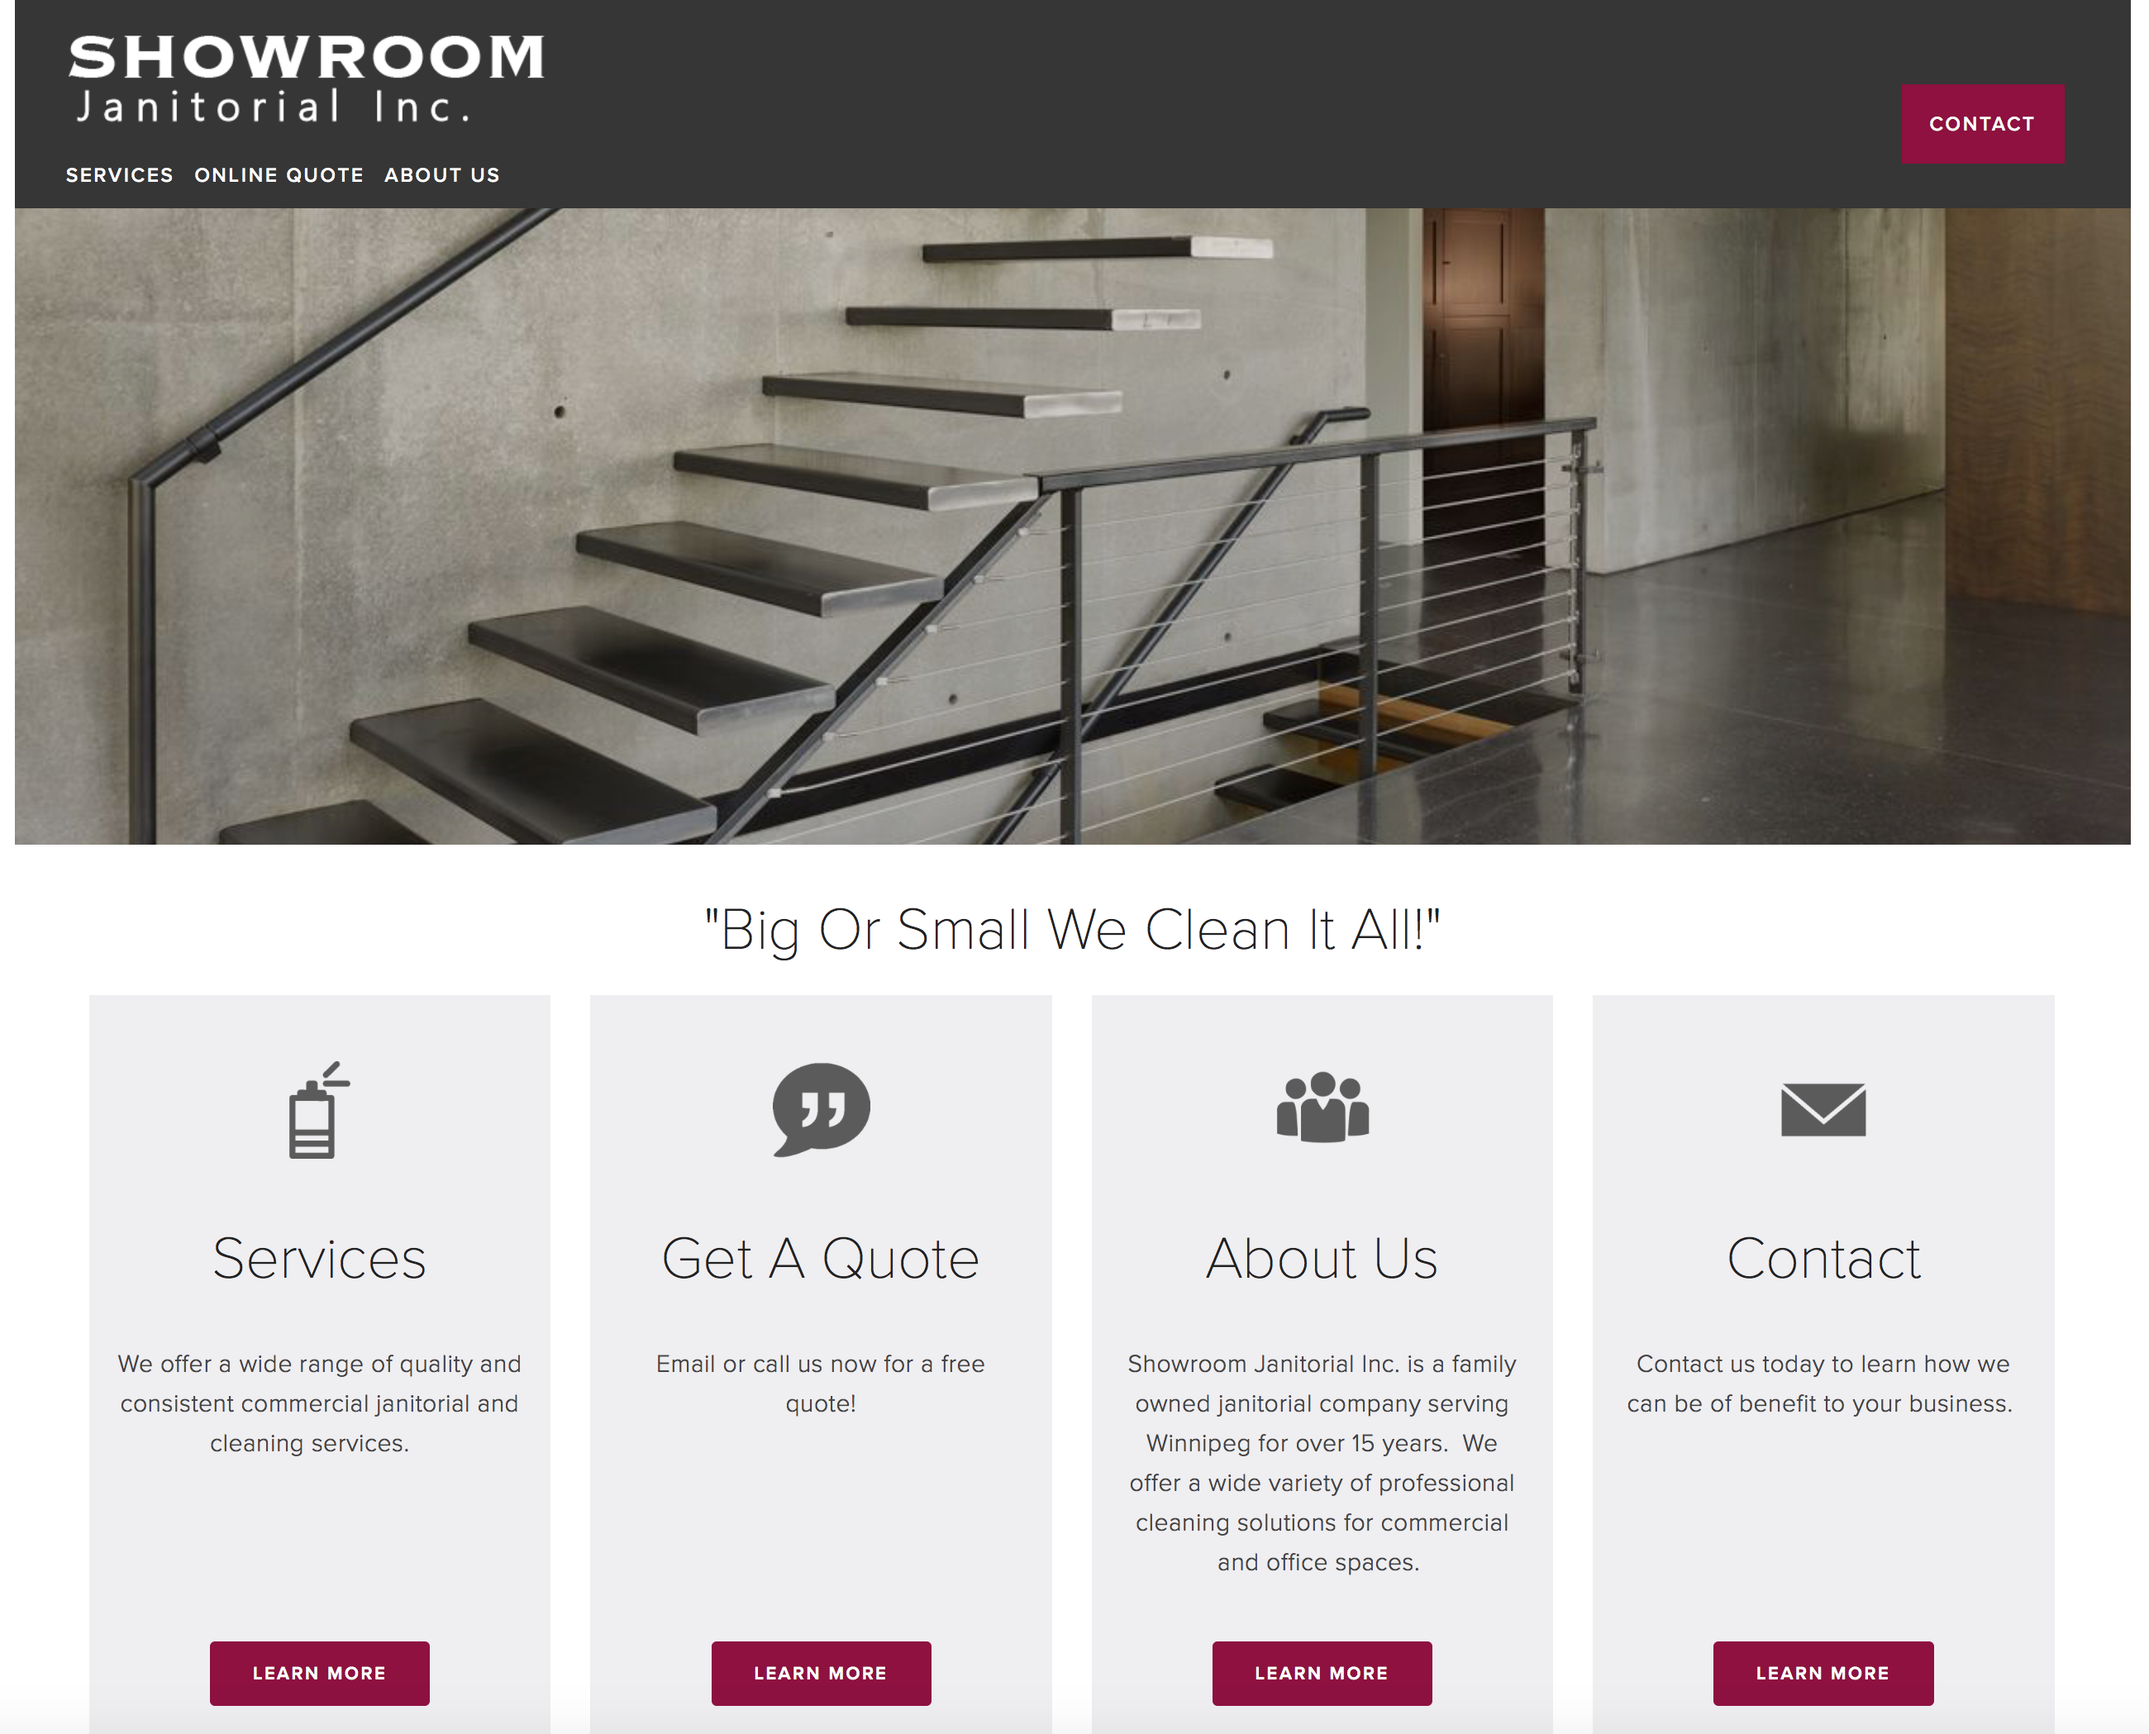
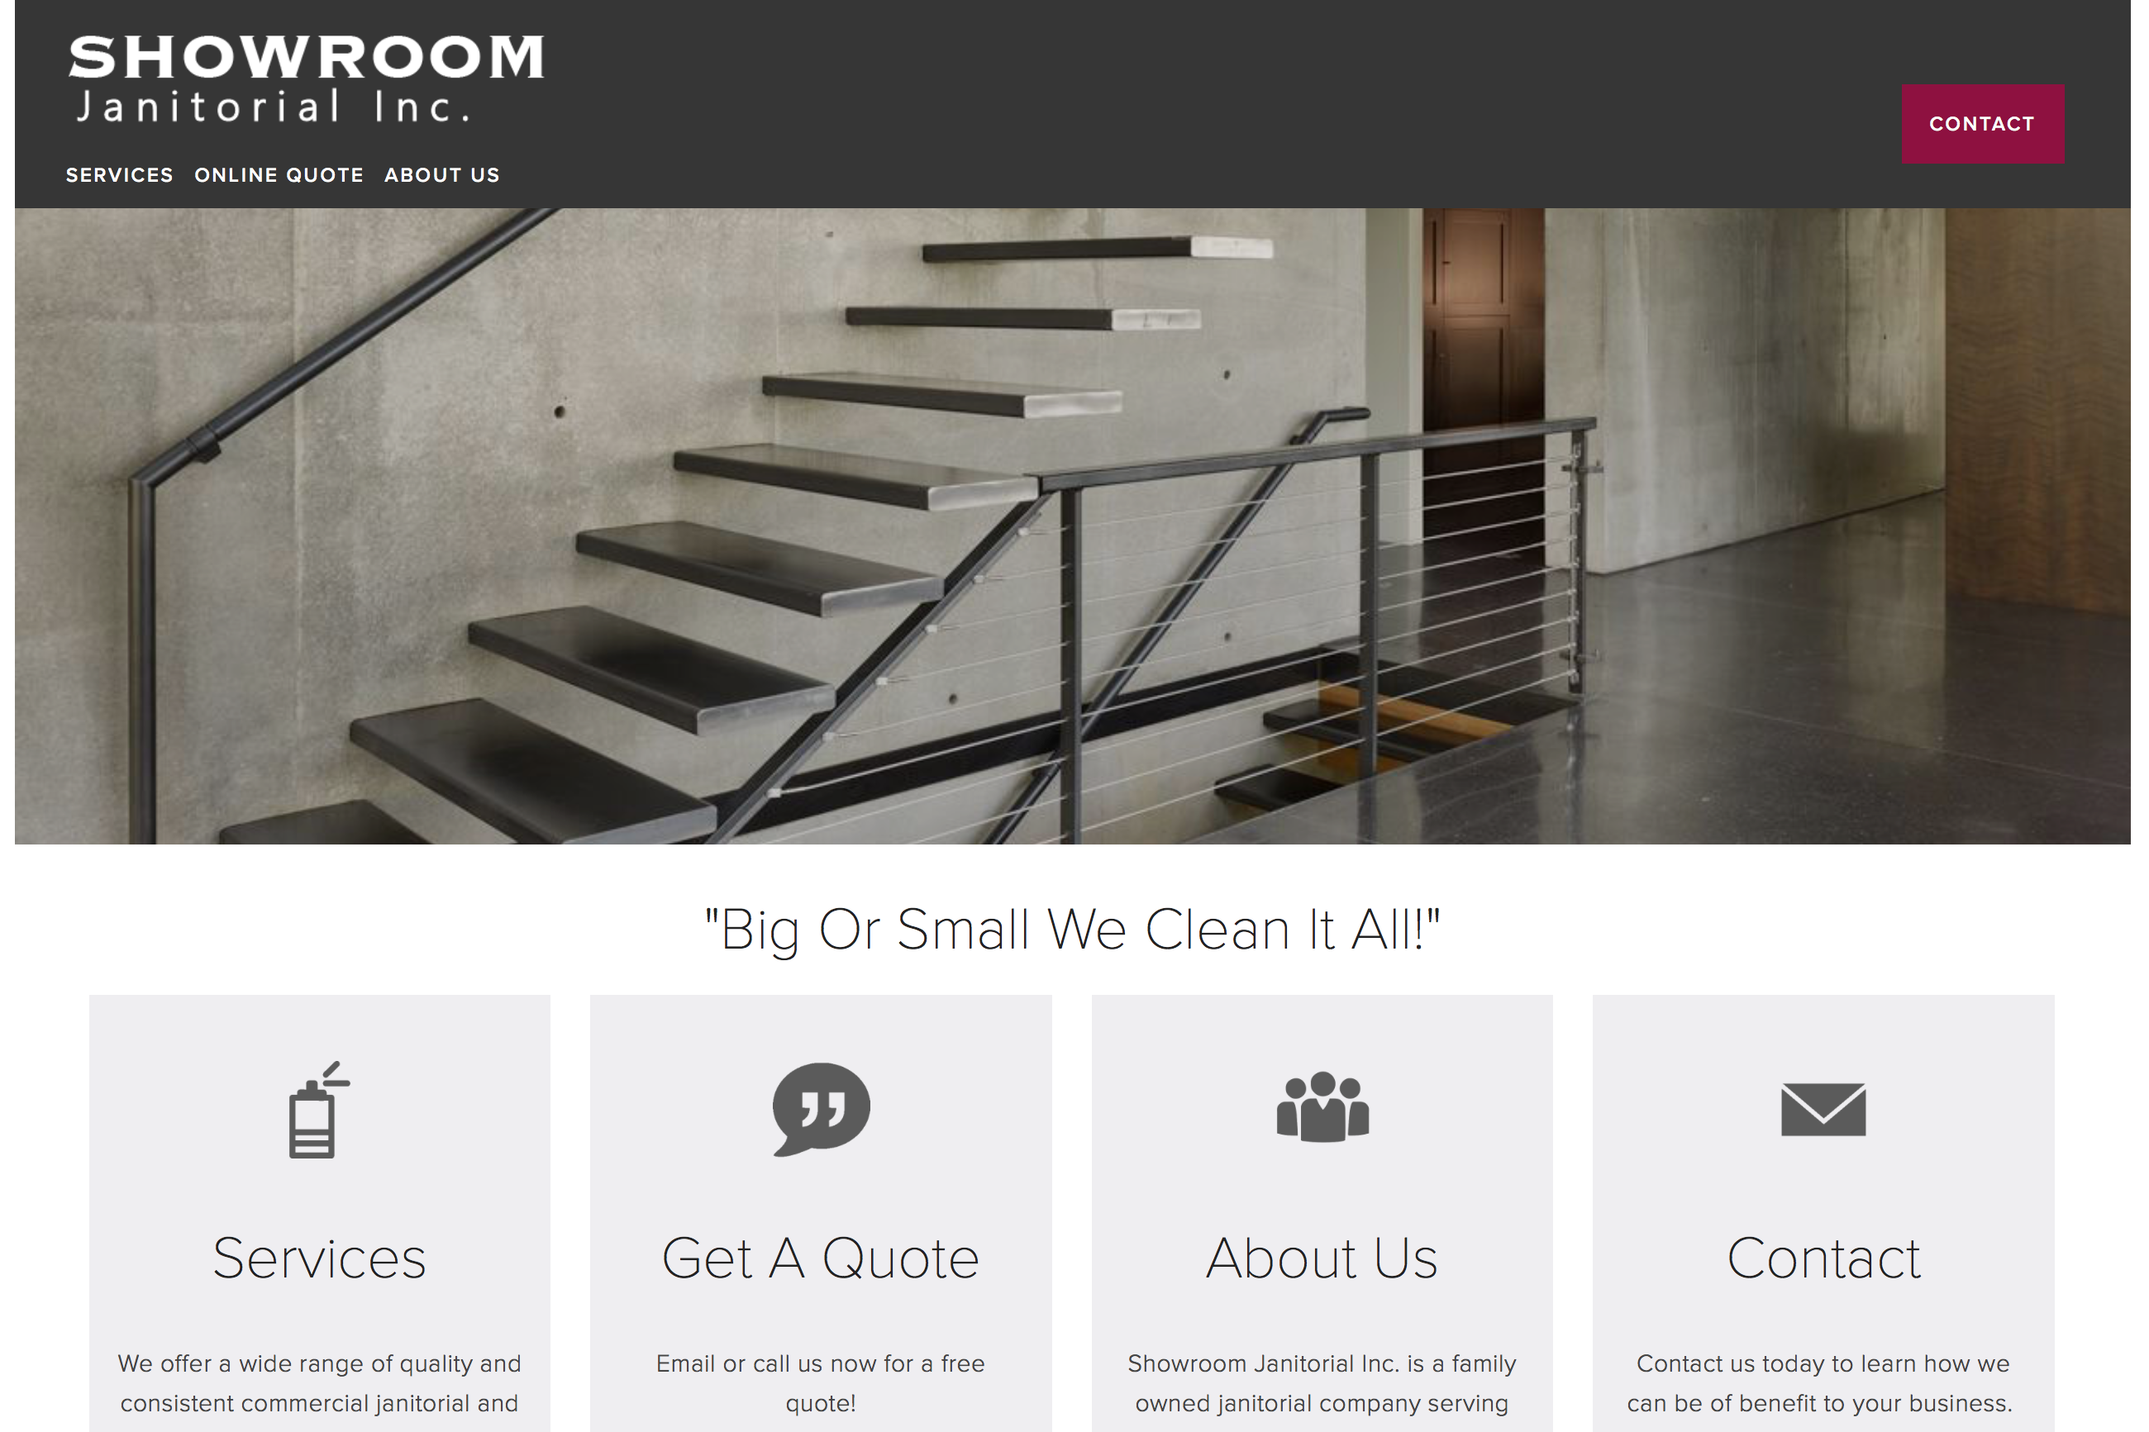
Redesign, image aspect correction

diff --git a/_sass/minima/_layout.scss b/_sass/minima/_layout.scss
@@ -2,7 +2,7 @@
  * Site header
  */
 .site-header {
-  border-top: 5px solid $grey-color-dark;
+  background-color: $grey-color-dark;
   border-bottom: 1px solid $grey-color-light;
   min-height: $spacing-unit * 1.865;
 
@@ -20,7 +20,7 @@
 
   &,
   &:visited {
-    color: $grey-color-dark;
+    color: $nav-text-color;
   }
 }
 
@@ -37,7 +37,7 @@
   }
 
   .page-link {
-    color: $text-color;
+    color: $nav-text-color;
     line-height: $base-line-height;
 
     // Gaps between nav items, but not on the last one
@@ -91,6 +91,7 @@
     .page-link {
       display: block;
       padding: 5px 10px;
+      color: $text-color;
 
       &:not(:last-child) {
         margin-right: 0;

diff --git a/_sass/minima.scss b/_sass/minima.scss
@@ -11,6 +11,7 @@ $base-line-height: 1.5 !default;
 $spacing-unit:     30px !default;
 
 $text-color:       #111 !default;
+$nav-text-color:   #FFF !default;
 $background-color: #fdfdfd !default;
 $brand-color:      #2a7ae2 !default;
 
